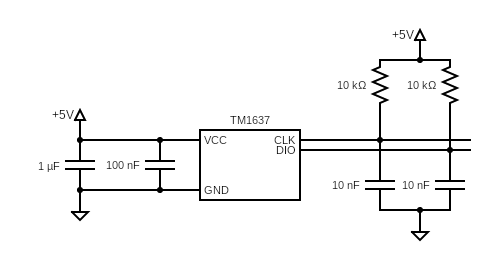
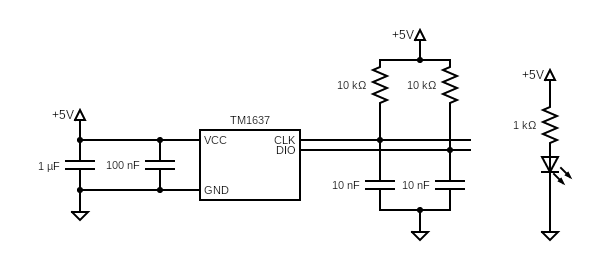
docs/tm1637: Add power led components to schematic; add note about correct values for these filter capacitors

Changed region(s): [[0.06, 0.0857, 0.96, 0.8571], [0.78, 0.0857, 0.87, 0.1714], [0.81, 0.8, 0.87, 0.8571]]

diff --git a/docs/tm1637/capacitor_removal.md b/docs/tm1637/capacitor_removal.md
@@ -9,26 +9,32 @@ available on Amazon and eBay currently.
 * Another type is a 4-digit a blue printed circuit board, but does not have any
   labels on it.
 
-The LED modules from diymore.cc come with 2 power capacitors across the `VCC`
-and `GND` lines, and 2 capacitors on the `DIO` and `CLK` pins to ground, as
-shown in the schematic below:
+The LED modules from diymore.cc come with a 1 uF smoothing capacitor and a 0.1
+uF filter capacitor across the `VCC` and `GND` lines. In addition, there are 2
+noise rejection capacitors on the `DIO` and `CLK` pins to ground, as shown in
+the schematic below:
 
 ![TM1637 LED Module Schematic](tm1637-led-module-schematic.png)
 
-The capacitors for `CLK` and `DIO` lines are 10 nF, which is about 100X larger
-than it should be. It causes the RC time constant to be about 100 microseconds,
-which forces the `BIT_DELAY` parameter in the `SoftTmiInterface` and
-`SoftTmiFastInterface` classes to be 100 microseoncds. According to the TM1637
-datasheet, the controller chip should be able to handle a bit delay as low as 1
-microsecond (i.e. 500 kHz).
+The capacitors for `CLK` and `DIO` lines are 10 nF, which is about 50-100X
+larger than it should be. It causes the RC time constant to be about 100
+microseconds, which forces the `BIT_DELAY` parameter in the `SoftTmiInterface`
+and `SoftTmiFastInterface` classes to be 100 microseoncds. According to the
+TM1637 datasheet, the controller chip should be able to handle a `BIT_DELAY` as
+low as 1 microsecond (i.e. 2 microseconds per full cycle, or 500 kHz).
 
 If you are handy with a soldering iron, you can remove the two 10 nF capacitors.
 The capacitors are located in different places depending on the size of the LED
 segments and the number of LED segments. The best way to identify the correct
 capacitors is to use a multimeter and find the capacitors where one end of the
 capacitor is connected to `GND` and the other end of the capacitor is connected
-to either the `DIO` pin or the `CLK` pin. When these capacitors are removed,
-I have verified that `BIT_DELAY` as low as 1 microsecond will work.
+to either the `DIO` pin or the `CLK` pin.
+
+In theory, these capacitors should be replaced with capacitor somewhere in the
+range of 100 to 500 pF , to prevent interference from high frequency noise on
+the `CLK` and `DIO` lines. However, I have tested these modules with **no**
+capacitors on the `DIO` and `CLK` lines, and was able to use a `BIT_DELAY` as
+low as 1 microsecond.
 
 Here are the photos of the LED modules that I modified, where the red box marks
 the place where the capacitors were removed:
